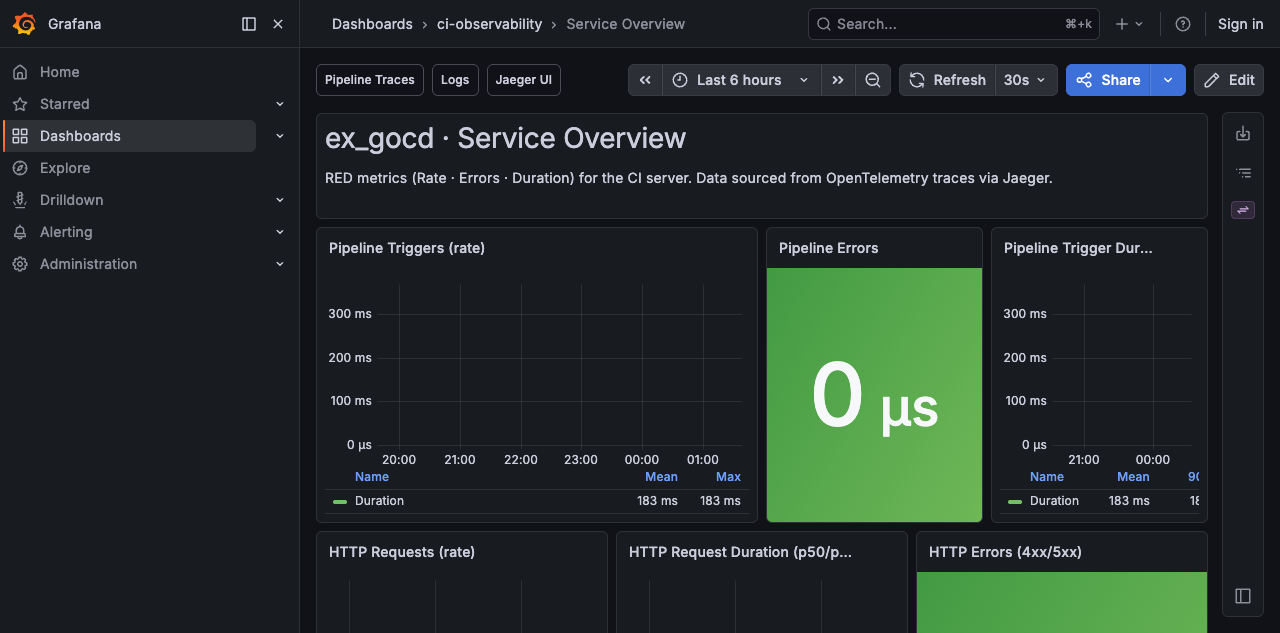
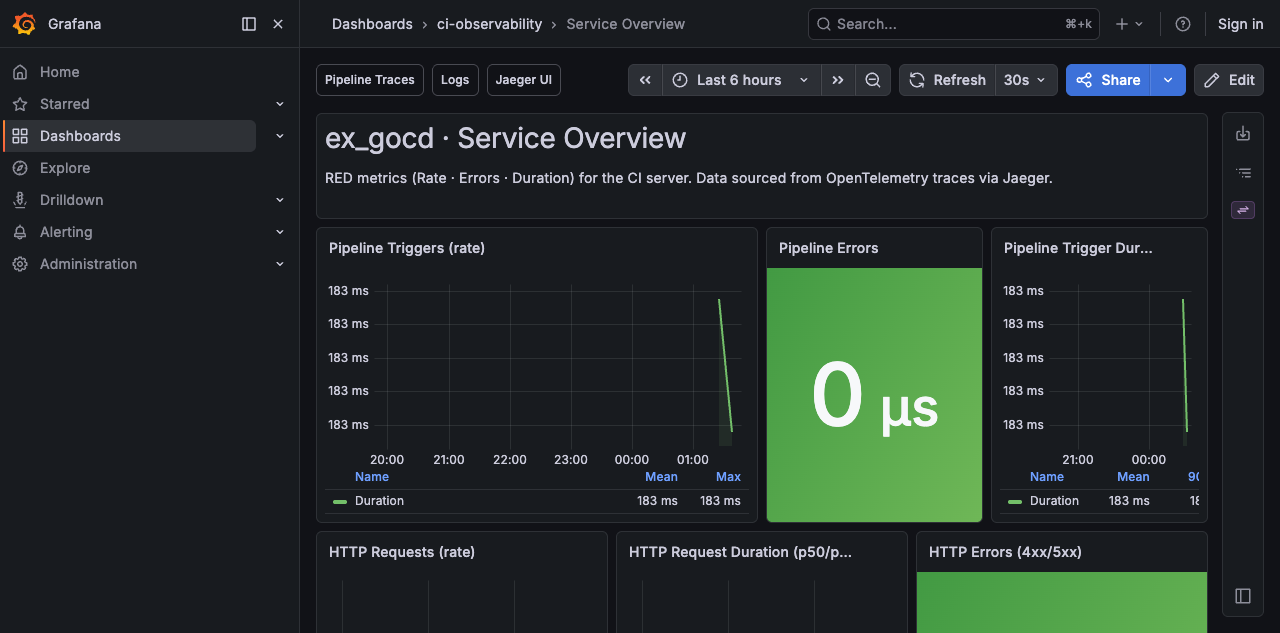
refactor: move Swagger UI route, update Jaeger screenshot tests, and disable process-compose web UI

diff --git a/cypress/e2e/screenshot-dashboards.cy.js b/cypress/e2e/screenshot-dashboards.cy.js
@@ -15,36 +15,61 @@ const JAEGER_SEARCH = "http://localhost:16686/search";
 const GRAFANA = "http://localhost:3000";
 
 describe("Auto screenshot — dashboards", () => {
-  // ── Jaeger: Trace Search ────────────────────────────────────
+  // ── Jaeger: Search results for ex_gocd service ──────────────
 
-  it("jaeger search", function () {
+  it("jaeger search results", function () {
     cy.request({ url: JAEGER_SEARCH, failOnStatusCode: false }).then((resp) => {
       if (resp.status !== 200) {
         cy.log(`** SKIP: Jaeger not reachable (${resp.status})`);
         this.skip();
         return;
       }
-      cy.visit(JAEGER_SEARCH);
-      // Jaeger might not have .phx-connected; wait for the search form
-      cy.get("form[role='search'], .jaeger-ui-filter, input[placeholder*='Search'], header", READY);
-      cy.appScreenshot("jaeger-search");
+      cy.visit(`${JAEGER_SEARCH}?service=ex_gocd&lookback=24h&limit=20`);
+      cy.get("header", READY);
+      cy.contains("button", "Find Traces").click();
+      // Wait, then check if any results appeared
+      cy.wait(3000);
+      cy.get("body").then(($body) => {
+        const hasResults =
+          $body.find('[data-testid="trace"]').length > 0 ||
+          $body.find('a[href*="/trace/"]').length > 0 ||
+          $body.find("table tbody tr").length > 0;
+        if (!hasResults) {
+          cy.log("** SKIP: no traces found for ex_gocd in last 24h");
+          this.skip();
+          return;
+        }
+      });
+      cy.appScreenshot("jaeger-search-results");
     });
   });
 
-  // ── Jaeger: Find a trace for ex_gocd ────────────────────────
+  // ── Jaeger: Trace detail (span waterfall) ──────────────────
 
-  it("jaeger trace", function () {
+  it("jaeger trace detail", function () {
     cy.request({ url: JAEGER_SEARCH, failOnStatusCode: false }).then((resp) => {
       if (resp.status !== 200) {
         cy.log("** SKIP: Jaeger not reachable");
         this.skip();
         return;
       }
-      // Search for ex_gocd traces
-      cy.visit(`${JAEGER_SEARCH}?service=ex_gocd&lookback=1h&limit=20`);
+      cy.visit(`${JAEGER_SEARCH}?service=ex_gocd&lookback=24h&limit=5`);
       cy.get("header", READY);
-      cy.wait(2000); // let trace results load
-      cy.appScreenshot("jaeger-trace-search");
+      cy.contains("button", "Find Traces").click();
+      cy.wait(3000);
+      // Click first trace link if available
+      cy.get("body").then(($body) => {
+        const traceLink = $body.find('a[href*="/trace/"]').first();
+        if (!traceLink.length) {
+          cy.log("** SKIP: no traces to inspect");
+          this.skip();
+          return;
+        }
+        cy.visit(traceLink.attr("href"));
+      });
+      cy.get("header", READY);
+      cy.wait(2000);
+      cy.appScreenshot("jaeger-trace-detail");
     });
   });
 
@@ -59,7 +84,7 @@ describe("Auto screenshot — dashboards", () => {
       }
       cy.visit(GRAFANA);
       cy.get("header, .main-view, .dashboard-container, .page-header", READY);
-      cy.wait(2000); // let dashboard panels render
+      cy.wait(3000); // let stat panels fetch Jaeger data
       cy.appScreenshot("grafana-pipeline-obs");
     });
   });
@@ -78,12 +103,12 @@ describe("Auto screenshot — dashboards", () => {
       }
       cy.visit(`${GRAFANA}/d/ci-service-overview`);
       cy.get("header, .main-view, .dashboard-container", READY);
-      cy.wait(2000);
+      cy.wait(3000);
       cy.appScreenshot("grafana-service-overview");
     });
   });
 
-  // ── Grafana: Logs ───────────────────────────────────────────
+  // ── Grafana: Logs viewer ────────────────────────────────────
 
   it("grafana logs", function () {
     cy.request({
@@ -95,9 +120,10 @@ describe("Auto screenshot — dashboards", () => {
         this.skip();
         return;
       }
-      cy.visit(`${GRAFANA}/d/ci-logs`);
+      // Expand to 7 days to increase chance of log data
+      cy.visit(`${GRAFANA}/d/ci-logs?from=now-7d&to=now`);
       cy.get("header, .main-view, .dashboard-container", READY);
-      cy.wait(2000);
+      cy.wait(4000); // Loki queries can be slow
       cy.appScreenshot("grafana-logs");
     });
   });